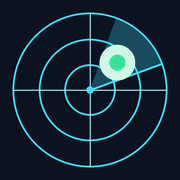
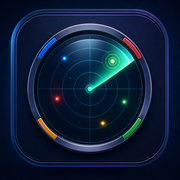
feat(radar): icone 3D premium sur toutes les icones de l'application
Remplace le radar plat dessine en code par l'icone 3D premium (source
1254x1254 de Codex) : ecran d'accueil, splash Android, onglet, iPhone.

La version maskable garde une marge de securite de 12 % (motif a 76 % du
canevas, fond raccorde a la couleur de l'image) pour que le radar reste
entier quand le systeme y decoupe un cercle.

Cache SW bumpe en radar-v12.

Note : une PWA deja installee conserve son ancienne icone tant qu'elle
n'est pas reinstallee, c'est l'OS qui la fige.

diff --git a/sw.js b/sw.js
@@ -1,4 +1,4 @@
-const CACHE = "radar-v11";
+const CACHE = "radar-v12";
 const ASSETS = [
   "./",
   "./index.html",
